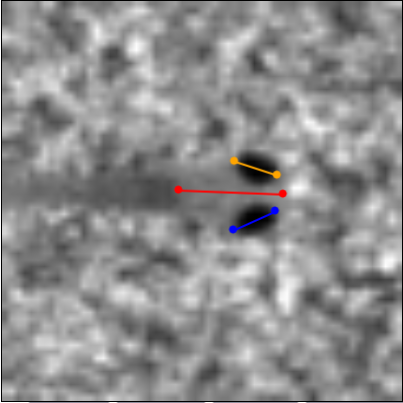
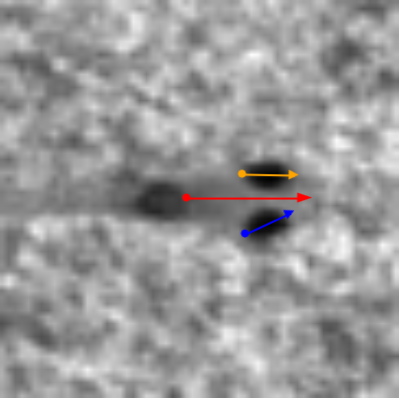
update gitignore

diff --git a/templates/index.html b/templates/index.html
@@ -142,14 +142,16 @@
                 });
 
                 // Create end dot (initially at the same position as start)
-                leftEnd = new fabric.Circle({
+                leftEnd = new fabric.Triangle({
+                    width: 10,
+                    height: 10,
                     left: pointer.x,
                     top: pointer.y,
-                    radius: 4,
                     fill: 'orange',
                     originX: 'center',
                     originY: 'center',
-                    selectable: false
+                    selectable: false,
+                    angle: 0
                 });
 
                 // Create line
@@ -179,14 +181,16 @@
                 });
 
                 // Create end dot (initially at the same position as start)
-                rightEnd = new fabric.Circle({
+                rightEnd = new fabric.Triangle({
+                    width: 10,
+                    height: 10,
                     left: pointer.x,
                     top: pointer.y,
-                    radius: 4,
                     fill: 'blue',
                     originX: 'center',
                     originY: 'center',
-                    selectable: false
+                    selectable: false,
+                    angle: 0
                 });
 
                 // Create line
@@ -216,14 +220,16 @@
                 });
 
                 // Create end dot (initially at the same position as start)
-                headEnd = new fabric.Circle({
+                headEnd = new fabric.Triangle({
+                    width: 10,
+                    height: 15,
                     left: pointer.x,
                     top: pointer.y,
-                    radius: 4,
                     fill: 'red',
                     originX: 'center',
                     originY: 'center',
-                    selectable: false
+                    selectable: false,
+                    angle: 0
                 });
 
                 // Create line
@@ -273,7 +279,8 @@
             var e = opt.e;
             const pointer = canvas.getPointer(opt.e);    
             heading_line.set({ x2: pointer.x, y2: pointer.y });
-            headEnd.set({ left: pointer.x, top: pointer.y });
+            headEnd.set({ left: pointer.x, top: pointer.y, angle: calculateAngle(headStart.left, headStart.top, pointer.x, pointer.y)+90 });
+            console.log(calculateAngle(headStart.left, headStart.top, pointer.x, pointer.y)+90);
             canvas.renderAll();
             // save heading values
             var start = headingKeyPoints[0];
@@ -286,7 +293,7 @@
             var e = opt.e;
             const pointer = canvas.getPointer(opt.e);    
             right_line.set({ x2: pointer.x, y2: pointer.y });
-            rightEnd.set({ left: pointer.x, top: pointer.y });
+            rightEnd.set({ left: pointer.x, top: pointer.y, angle: calculateAngle(rightStart.left, rightStart.top, pointer.x, pointer.y)+90 });
             canvas.renderAll();
             // save values
             var start = rightKeyPoints[0];
@@ -299,7 +306,7 @@
             var e = opt.e;
             const pointer = canvas.getPointer(opt.e);    
             left_line.set({ x2: pointer.x, y2: pointer.y });
-            leftEnd.set({ left: pointer.x, top: pointer.y });
+            leftEnd.set({ left: pointer.x, top: pointer.y, angle: calculateAngle(leftStart.left, leftStart.top, pointer.x, pointer.y)+90 });
             canvas.renderAll();
             // save heading values
             var start = leftKeyPoints[0];
@@ -344,8 +351,22 @@
                 canvas.renderAll();
             }
         }
-
         window.addEventListener('keydown', handleKeyPress);
+
+        // helper function to compute angle
+        function calculateAngle(x1, y1, x2, y2) {
+            // Calculate the difference between points
+            const dx = x2 - x1;
+            const dy = y2 - y1;
+
+            // Use atan2 to compute the angle in radians
+            const angleRadians = Math.atan2(dy, dx);
+
+            // Convert the angle to degrees (optional)
+            const angleDegrees = angleRadians * (180 / Math.PI);
+
+            return angleDegrees; // You can return either radians or degrees
+        }
 
         // Save annotation
         document.getElementById('saveButton').addEventListener('click', function() {

diff --git a/annotations/helpers.py b/annotations/helpers.py
@@ -1,0 +1,48 @@
+import sys
+sys.path.append("/home/charlie/code/eyeAnnotation")
+import math
+import numpy as np
+
+def is_left_of_line(line_start, line_end, point):
+    """
+    Checks if a point is to the left of a line formed by line_start and line_end.
+    
+    Args:
+        line_start (tuple): (x1, y1) coordinates of the start of the line.
+        line_end (tuple): (x2, y2) coordinates of the end of the line.
+        point (tuple): (x, y) coordinates of the point to check.
+    
+    Returns:
+        bool: True if the point is to the left of the line, False otherwise.
+    """
+    x1, y1 = line_start
+    x2, y2 = line_end
+    x, y = point
+
+    # Compute the cross product
+    cross_product = (x2 - x1) * (y - y1) - (y2 - y1) * (x - x1)
+
+    # If the cross product is positive, the point is to the left
+    return cross_product > 0
+
+def check_valid_labels(data):
+    """
+    Check that the labels are valid (left eye is to the left of heading vector and right eye is to the right)
+    """ 
+    line_start = data["heading_points"][0]["x"], data["heading_points"][0]["y"]
+    line_end = data["heading_points"][1]["x"], data["heading_points"][1]["y"]
+    valid = (is_left_of_line(line_start, line_end, (data["right_points"][0]["x"], data["right_points"][0]["y"]))==False) & \
+        (is_left_of_line(line_start, line_end, (data["right_points"][1]["x"], data["right_points"][1]["y"]))==False) & \
+        (is_left_of_line(line_start, line_end, (data["left_points"][0]["x"], data["left_points"][0]["y"]))==True) & \
+        (is_left_of_line(line_start, line_end, (data["left_points"][1]["x"], data["left_points"][1]["y"]))==True)
+    if valid:
+        return valid, ""
+    else:
+        return valid, "all left eye points must be to the left of heading, and all right to the right"
+
+
+def convert_keypoints(data):
+    """
+    convert dictionary of keypoints to angle / distance between eyes
+    return result as dictionary
+    """

diff --git a/app.py b/app.py
@@ -5,6 +5,7 @@ from flask import Flask, render_template, request, jsonify, url_for, make_respon
 import json
 import os
 from loader.data_loader import load_new_image
+from annotations.helpers import convert_keypoints, check_valid_labels
 import subprocess
 from settings import IMG_DIR
 import datetime
@@ -40,9 +41,14 @@ def save_annotation():
     global IMAGE_TMP_PATH, IMAGE_PATH
 
     data = request.json
+
+    # check that valid labels
+    valid, msg = check_valid_labels(data)
+    if valid==False:
+         return jsonify({"message": f"Error: {msg}", "image_path": f"{IMAGE_PATH}"})
     
-    # convert the key point annotations to eye position / angle (the outputs of the model)
-    # processed_data = get_pos_angle(data)
+    # convert the key point annotations to eye distance / angle (the outputs of the model)
+    # processed_data = convert_keypoints(data)
 
     # Save annotation to a file
     name = os.path.basename(IMAGE_TMP_PATH).replace(".png", ".json")
